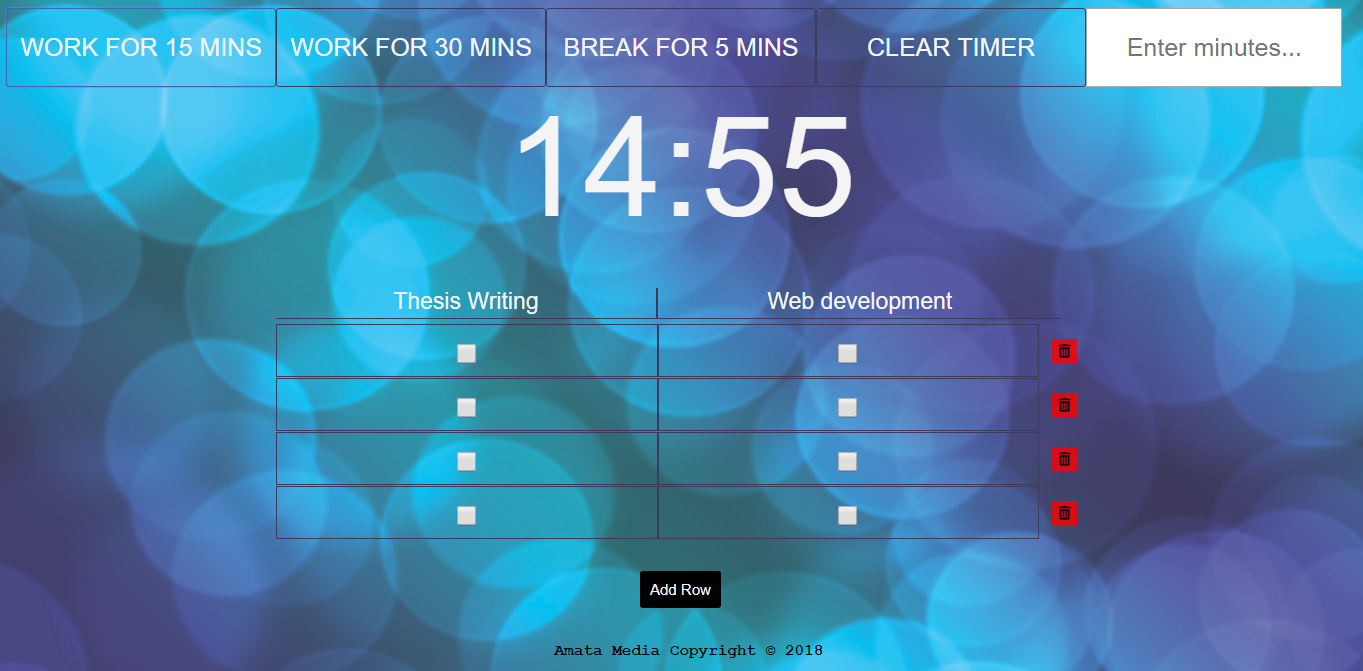
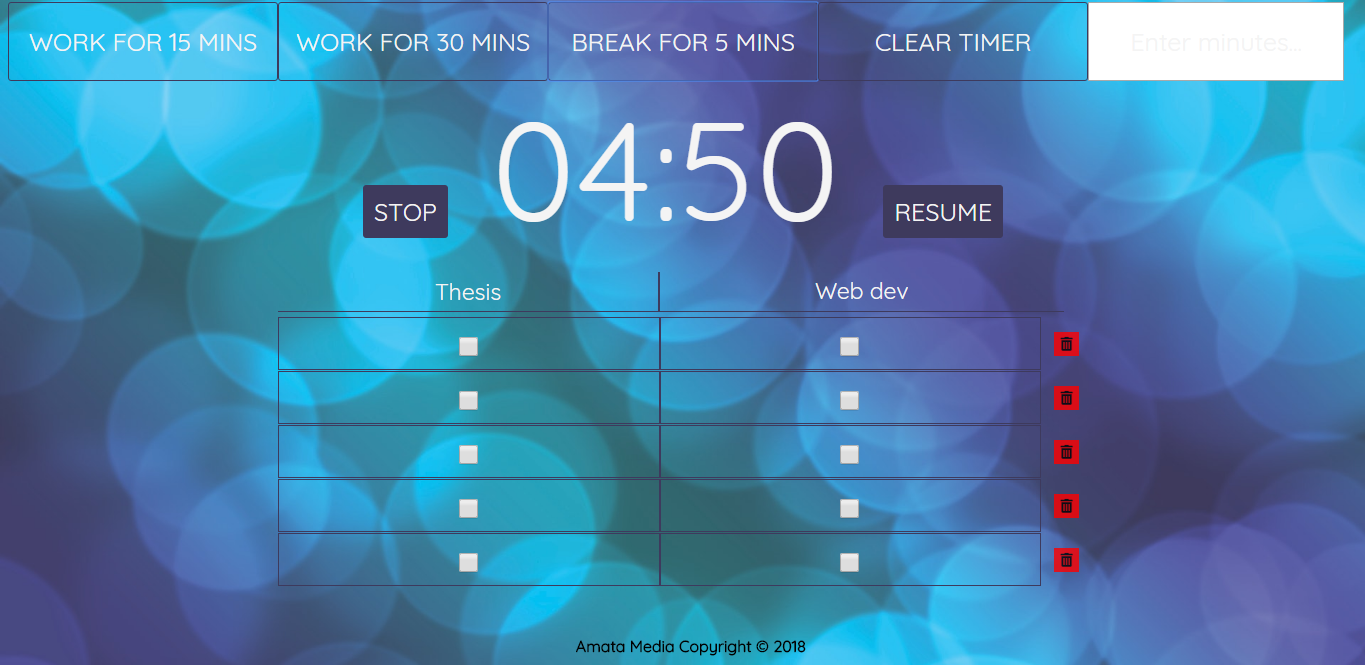
Added stop and resume buttons, beep audio and tweaks to README file

diff --git a/app.js b/app.js
@@ -4,12 +4,14 @@ const buttons = document.querySelectorAll('[data-time]');
 const clearScreen = document.querySelector('#clear');
 const addRow = document.querySelector('#row');
 const mainUL = document.querySelector('#main-ul');
-// const acti1 = document.querySelector('#act1');
-// const acti2 = document.querySelector('#act2');
+const stopT = document.querySelector("#stopTimer")
+const resumeT = document.querySelector("#resumeTimer")
 
 // Variables
 let countInterval;
 let rowCounter = 0;
+let secondsLeft;
+const audio = new Audio('beep-04.wav'); 
 
 // Functions
 function timer(seconds){
@@ -22,14 +24,22 @@ function timer(seconds){
   // When timer supposed to end
   const end = now + seconds*1000;
 
+  // Display both stop and resume buttons
+  stopT.style.visibility = 'visible';
+  resumeT.style.visibility = 'visible';
+
   // Display time before countdown begins
   displayTime(seconds);
 
   countInterval = setInterval(() => {
-  const secondsLeft = Math.round((end - Date.now())/1000);
+  secondsLeft = Math.round((end - Date.now())/1000);
 
   // Check to stop interval
   if(secondsLeft < 0){
+
+    // Audio to signify timer has ended
+    audio.play();
+
     clearInterval(countInterval); // need to assign setInterval to a variable in order to use the clearInterval function
 
     // Change title back to its default
@@ -40,6 +50,8 @@ function timer(seconds){
   displayTime(secondsLeft);
 
   }, 1000);
+
+  stoppedTime = countInterval;
 }
 
 // Display time function
@@ -64,6 +76,7 @@ function startTimer(){
 
   // Convert time datasets to integers
   const seconds = parseInt(this.dataset.time);
+  
   timer(seconds);
 }
 
@@ -75,6 +88,10 @@ function clearTime(){
 
   // Display nothing in the timer div
   showTime.textContent = '';
+
+  // Make both stop and resume buttons invisible
+  stopT.style.visibility = 'hidden';
+  resumeT.style.visibility = 'hidden';
 
   // Change title back to its default
   document.title = 'Productivity App';
@@ -100,6 +117,22 @@ document.form.addEventListener('submit', function(e){
   // Clear input form
   this.reset();
 });
+
+// Event listeners for stop and resume buttons
+stopT.addEventListener('click', stop);
+resumeT.addEventListener('click', resume);
+
+// Stop Timer function
+function stop(){
+
+  clearInterval(countInterval);
+}
+
+// Resume Time function
+function resume() {
+
+  timer(secondsLeft);
+}
 
 // Add row event listener
 addRow.addEventListener('click', RowToAdd);
@@ -197,11 +230,5 @@ function deleteRow(e){
   }
 }
 
-// Edit Activity Name event listeners
-// acti1.addEventListener('click', clearInput);
-// acti2.addEventListener('click', clearInput);
-//
-// // Function to clear 'Edit Activity Name' when clicked
-// function clearInput(){
-//   this.innerHTML = '';
-// }
+
+

diff --git a/styles.css b/styles.css
@@ -1,5 +1,4 @@
 *{
-  /* margin: 0; */
   padding: 0;
 }
 
@@ -9,6 +8,7 @@ body{
   background-position: center;
   background-repeat: no-repeat;
   background-attachment: fixed;
+  background-size: cover;
   -ms-background-size: cover;
   -o-background-size: cover;
   -moz-background-size: cover;
@@ -79,6 +79,38 @@ input[type=text]{
 
 #display{
   text-align: center;
+}
+
+#stopTimer{
+  background: #3e3a5d;
+  border-radius: 3px;
+  border: 1px solid #3e3a5d;
+  color: #f4f4f4;
+  font-size: 25px;
+  font-family:'Quicksand', Helvetica;
+  padding: 10px 10px;
+  text-transform: uppercase;
+  visibility: hidden;
+}
+
+#resumeTimer{
+  background: #3e3a5d;
+  border-radius: 3px;
+  border: 1px solid #3e3a5d;
+  color: #f4f4f4;
+  font-size: 25px;
+  font-family:'Quicksand', Helvetica;
+  padding: 10px 10px;
+  text-transform: uppercase;
+  visibility: hidden;
+}
+
+#stopTimer:hover{
+  background: transparent;
+}
+
+#resumeTimer:hover{
+  background: transparent;
 }
 
 #time{
@@ -230,6 +262,20 @@ input[type=text]{
     font-size: 20px;
   }
 
+  #display{
+    padding: 15px 0px;
+  }
+  
+  #stopTimer{
+    font-size: 20px;
+    padding: 5px 5px;
+  }
+
+  #resumeTimer{
+    font-size: 20px;
+    padding: 5px 5px;
+  }
+
   #time{
     font-family: Quicksand, Helvetica;
     font-size: 47px;
@@ -351,13 +397,27 @@ input[type=text]{
     font-size: 16px;
   }
 
+  #display{
+    padding: 10px 0px;
+  }
+
+  #stopTimer{
+    font-size: 14px;
+    padding: 5px 5px;
+    margin-left: 3px;
+  }
+
+  #resumeTimer{
+    font-size: 14px;
+    padding: 5px 5px;
+    margin-right: 5px;
+  }
+
   #time{
     font-family: 'Quicksand', Helvetica;
-    font-size: 48px;
+    font-size: 43px;
     font-style: normal;
-    margin-top: -20px;
-    margin-left: 40px;
-    margin-right: 40px;
+    margin-top:-40px;
     color: #f4f4f4;
   }
 

diff --git a/index.html b/index.html
@@ -23,7 +23,10 @@
 
     <!-- Display time -->
     <div id="display">
+      <button id="stopTimer">Stop</button>
       <span id="time"></span>
+      <button id="resumeTimer">Resume</button>
+      <!-- <button id="resumeTimer" style="visibility: hidden">Resume</button> -->
     </div>
 
     <!-- Activities div -->

diff --git a/README.md b/README.md
@@ -4,6 +4,8 @@ This is a responsive frontend web application influenced by the Pomodoro techniq
 
 The top part of the web application contains four buttons: 3 of which are used to countdown from a specific time (in minutes) and the fourth button is used to clear the timer. In addition, there is an input field where the user can enter the number of minutes to countdown from.
 
+'Stop' and 'Resume' buttons are made visible once the timer is started and made hidden once the 'clear timer' button is clicked. A beep sound is made to indicate to the user that the timer is done.
+
 Below the row of buttons and before the row that contains the fields "Edit Activity Name", is where the countdown timer will be displayed when the user clicks or enters the number of minutes to be counted down.
 
 The user can edit the default "Edit Activity Name" field by simply clicking on any of the letters to the activity he/she wants to track. The "Add Row" button below adds a row containing two items, one for each activity. Each item contains a checkbox which when checked, changes the background of the parent element of that item. This is used to signify that the particular activity slot has been completed when the corresponding timer has elapsed.
